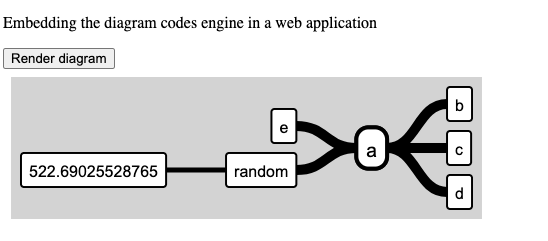
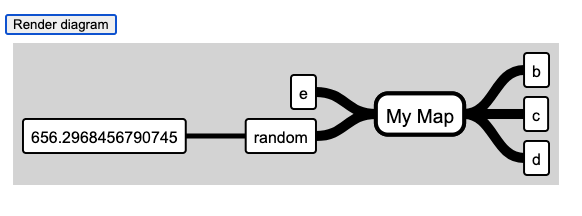
screenshot

diff --git a/example/index.html b/example/index.html
@@ -27,7 +27,7 @@
                 container:'#container',
                 type:'mind-map',
                 code:`
-                    a->b,c,d,e,random
+                    "My Map"->b,c,d,e,random
                     random->${Math.random()*1000}
                 `,
                 theme: {
